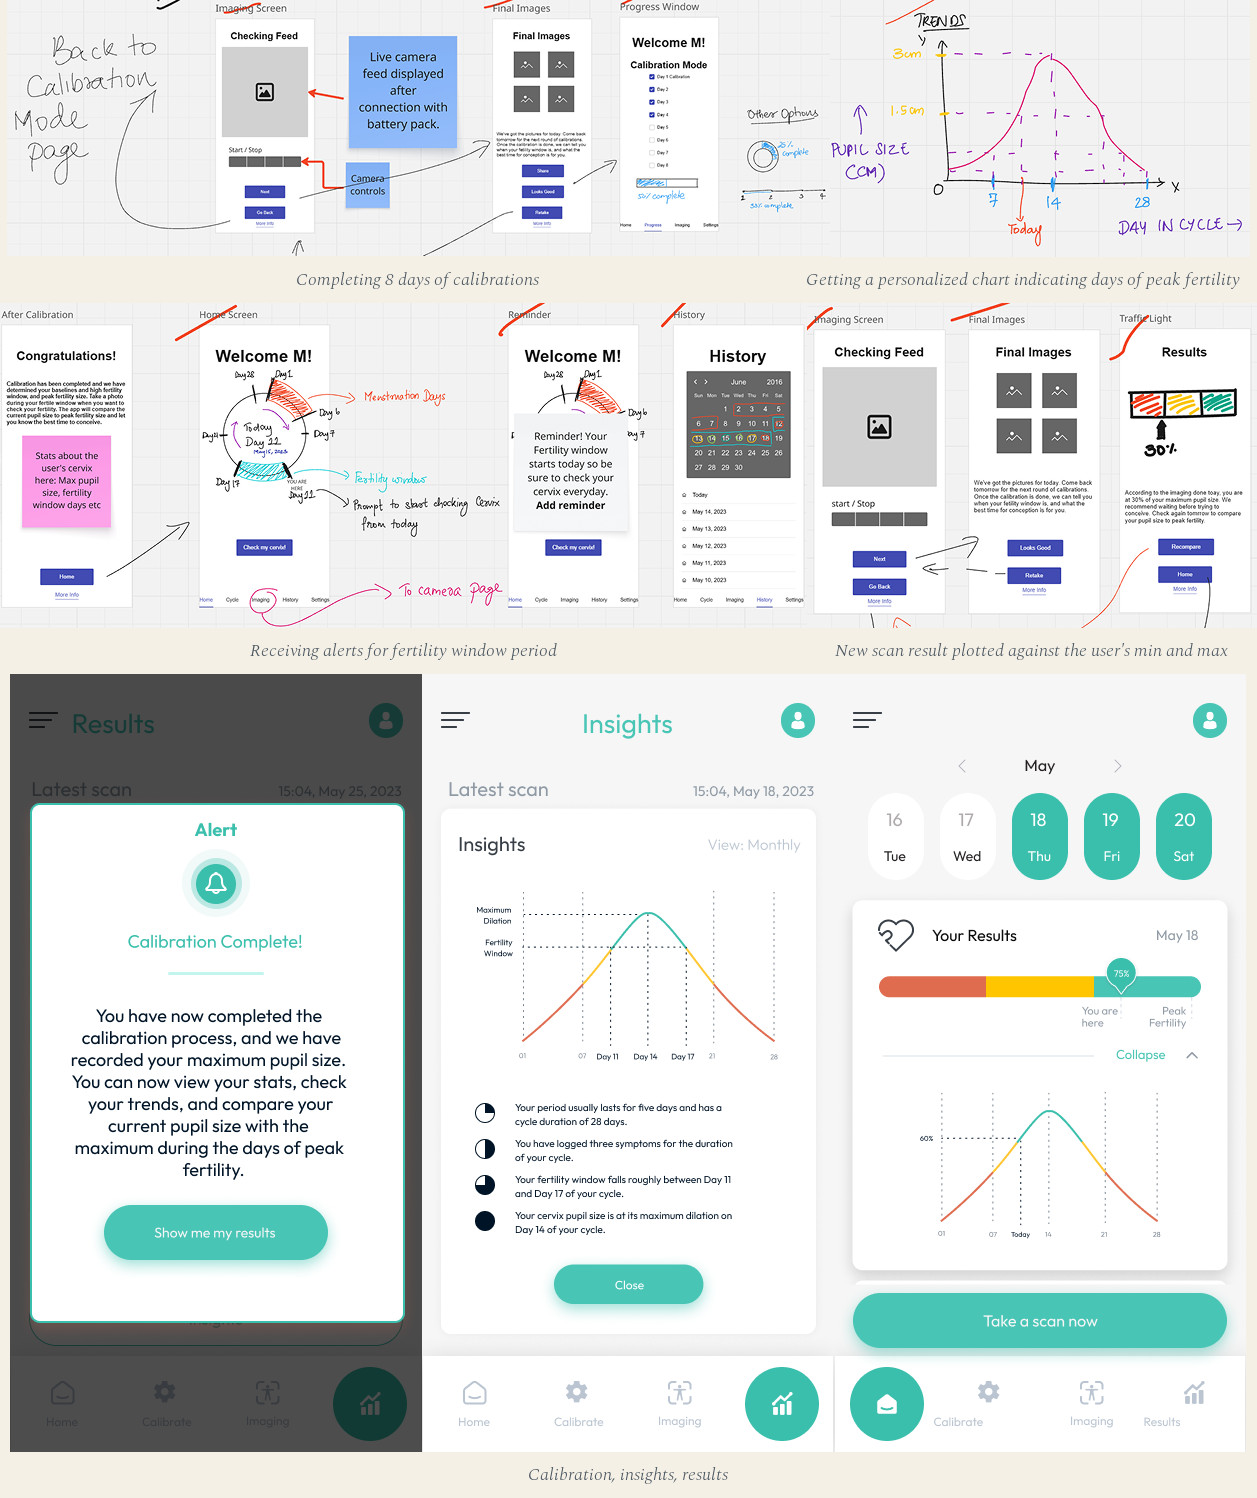
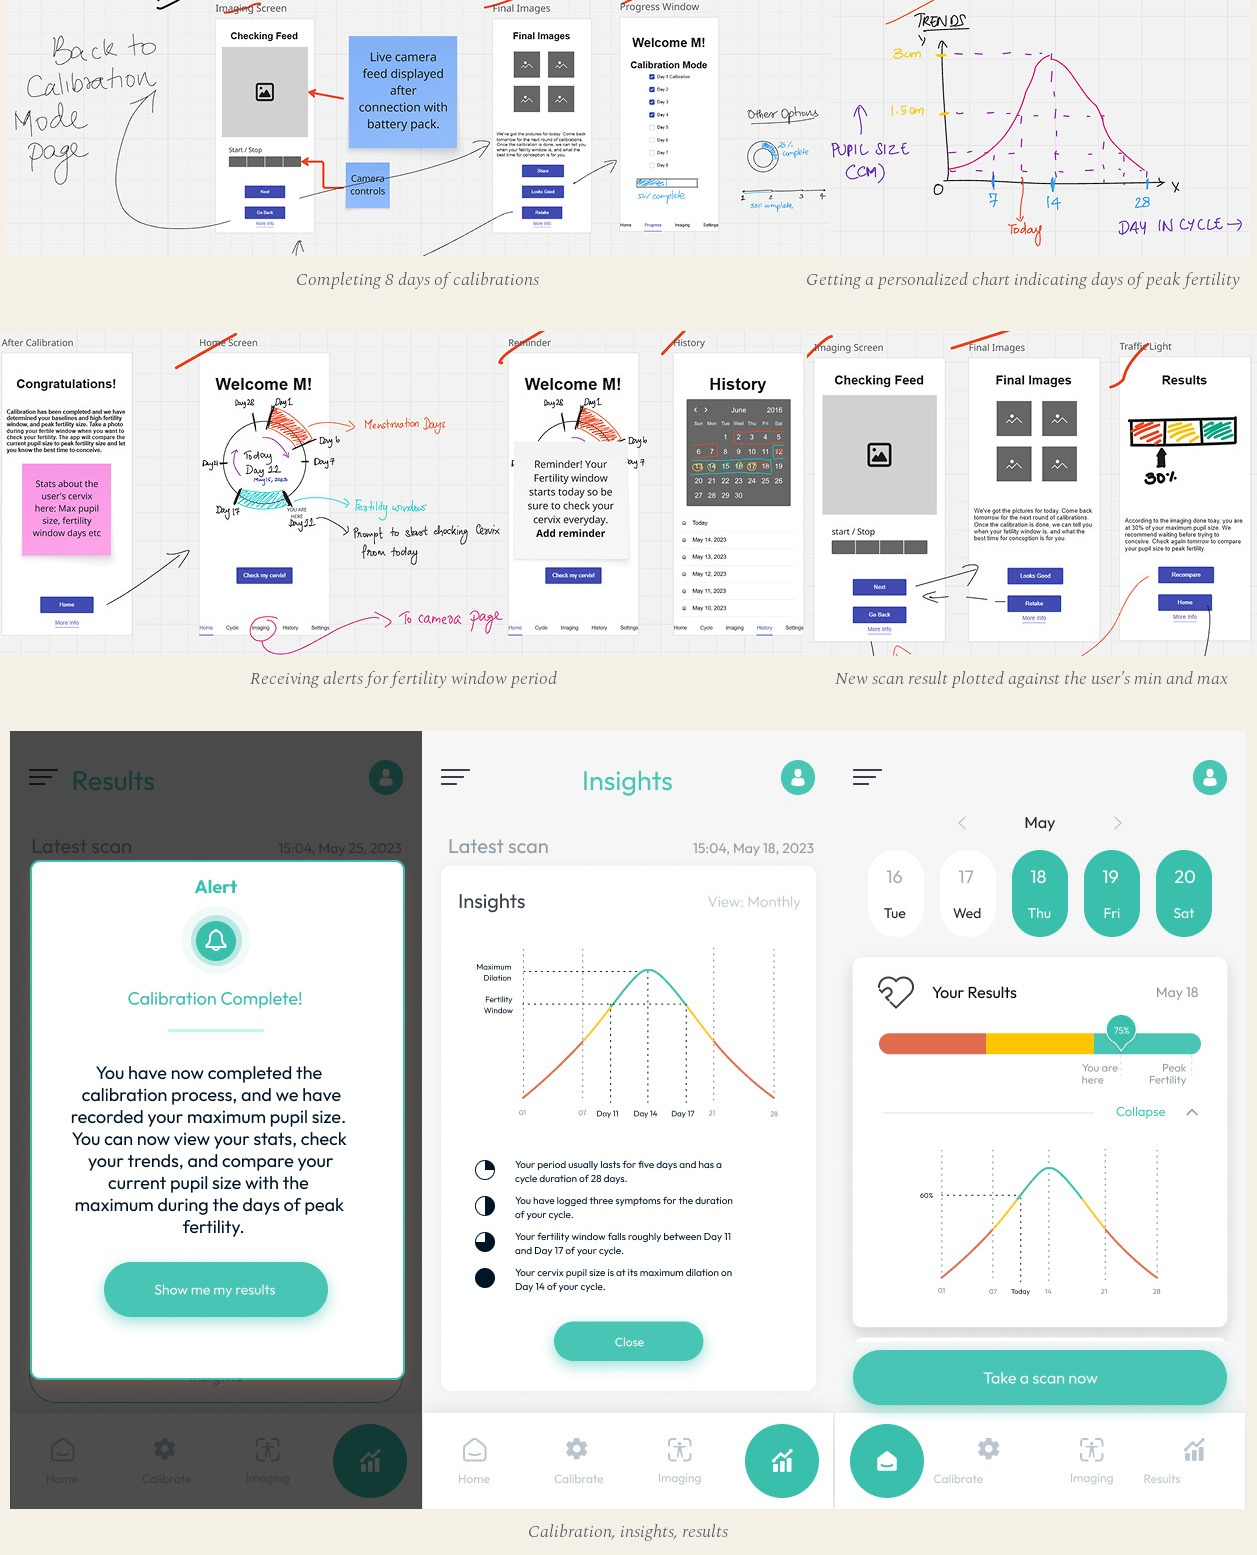
Add 40px spacing after Solutions images and between the solutions rows
- .case-image had no margin-bottom, so each Solutions image butted
  straight into the next paragraph with 0px gap. Added a #solutions
  .case-image { margin-bottom: 40px } rule, scoped to the Solutions
  section's own id rather than the shared .case-image class, so
  spacing elsewhere on the page is untouched.
- elleloom-solutions.jpg has 3 row-groups spliced flush against each
  other from an earlier gap-removal pass (~12px leftover). Inserted
  28-29px of cream into each of the two internal seams so the visible
  gap between row 1/2 and row 2/3 is ~40px, matching the new spacing
  after the image. Content itself untouched, image grew from
  1257x1498 to 1257x1555.

diff --git a/css/style.css b/css/style.css
@@ -610,7 +610,8 @@ section.page-section {
 
 .case-meta {
   display: grid;
-  grid-template-columns: repeat(3, 1fr);
+  /* grid-template-columns: repeat(3, 1fr); */
+  grid-template-columns: repeat(3, auto);
   gap: 24px;
   margin-top: 48px;
   padding-top: 32px;
@@ -643,10 +644,10 @@ section.page-section {
 }
 
 .case-section-label {
-  font-family: var(--font-display);
+  font-family: var(--font-display) !important;
   font-weight: 700;
   font-size: 32px;
-  text-transform: uppercase;
+  text-transform: unset;
   letter-spacing: 0.08em;
   color: #001427;
   margin: 0 0 16px;
@@ -678,6 +679,14 @@ section.page-section {
    each image keep its own proportions at full column width instead. */
 .case-image img { width: 100%; height: auto; display: block; }
 
+/* Solutions section only: .case-image has no margin-bottom by default, so an
+   image was butting straight up against the next paragraph with no gap.
+   Scoped here rather than on the shared .case-image class so it doesn't
+   change spacing anywhere else on the page. */
+#solutions .case-image {
+  margin-bottom: 40px;
+}
+
 .case-hero-image {
   margin-top: 40px;
   border-radius: 4px;
@@ -688,11 +697,12 @@ section.page-section {
 .case-hero-image img { width: 100%; height: auto; display: block; }
 
 .case-image-caption {
-  font-family: var(--font-body);
+  font-family: var(--font-body) !important;
   font-style: italic;
   font-weight: 300;
-  font-size: 14px;
-  margin-top: 12px;
+  text-align: center;
+  font-size: 14px !important;
+  margin-top: 12px !important;
   color: rgba(0,20,39,0.7);
 }
 

diff --git a/project-elleloom.html b/project-elleloom.html
@@ -105,7 +105,7 @@
 
   <div class="kolam-divider" role="presentation"></div>
 
-  <section class="case-section">
+  <section class="case-section" id="solutions">
     <div class="wrap">
       <p class="case-section-label">The Solutions</p>
       <p>I brainstormed several different screens for the app, putting my ideas onto paper. As a woman, I understood the unique challenges in designing such an app, especially when it was bound to feel a little invasive, so I was determined to make the experience of using the app feel friendly, secure, and private.</p>
